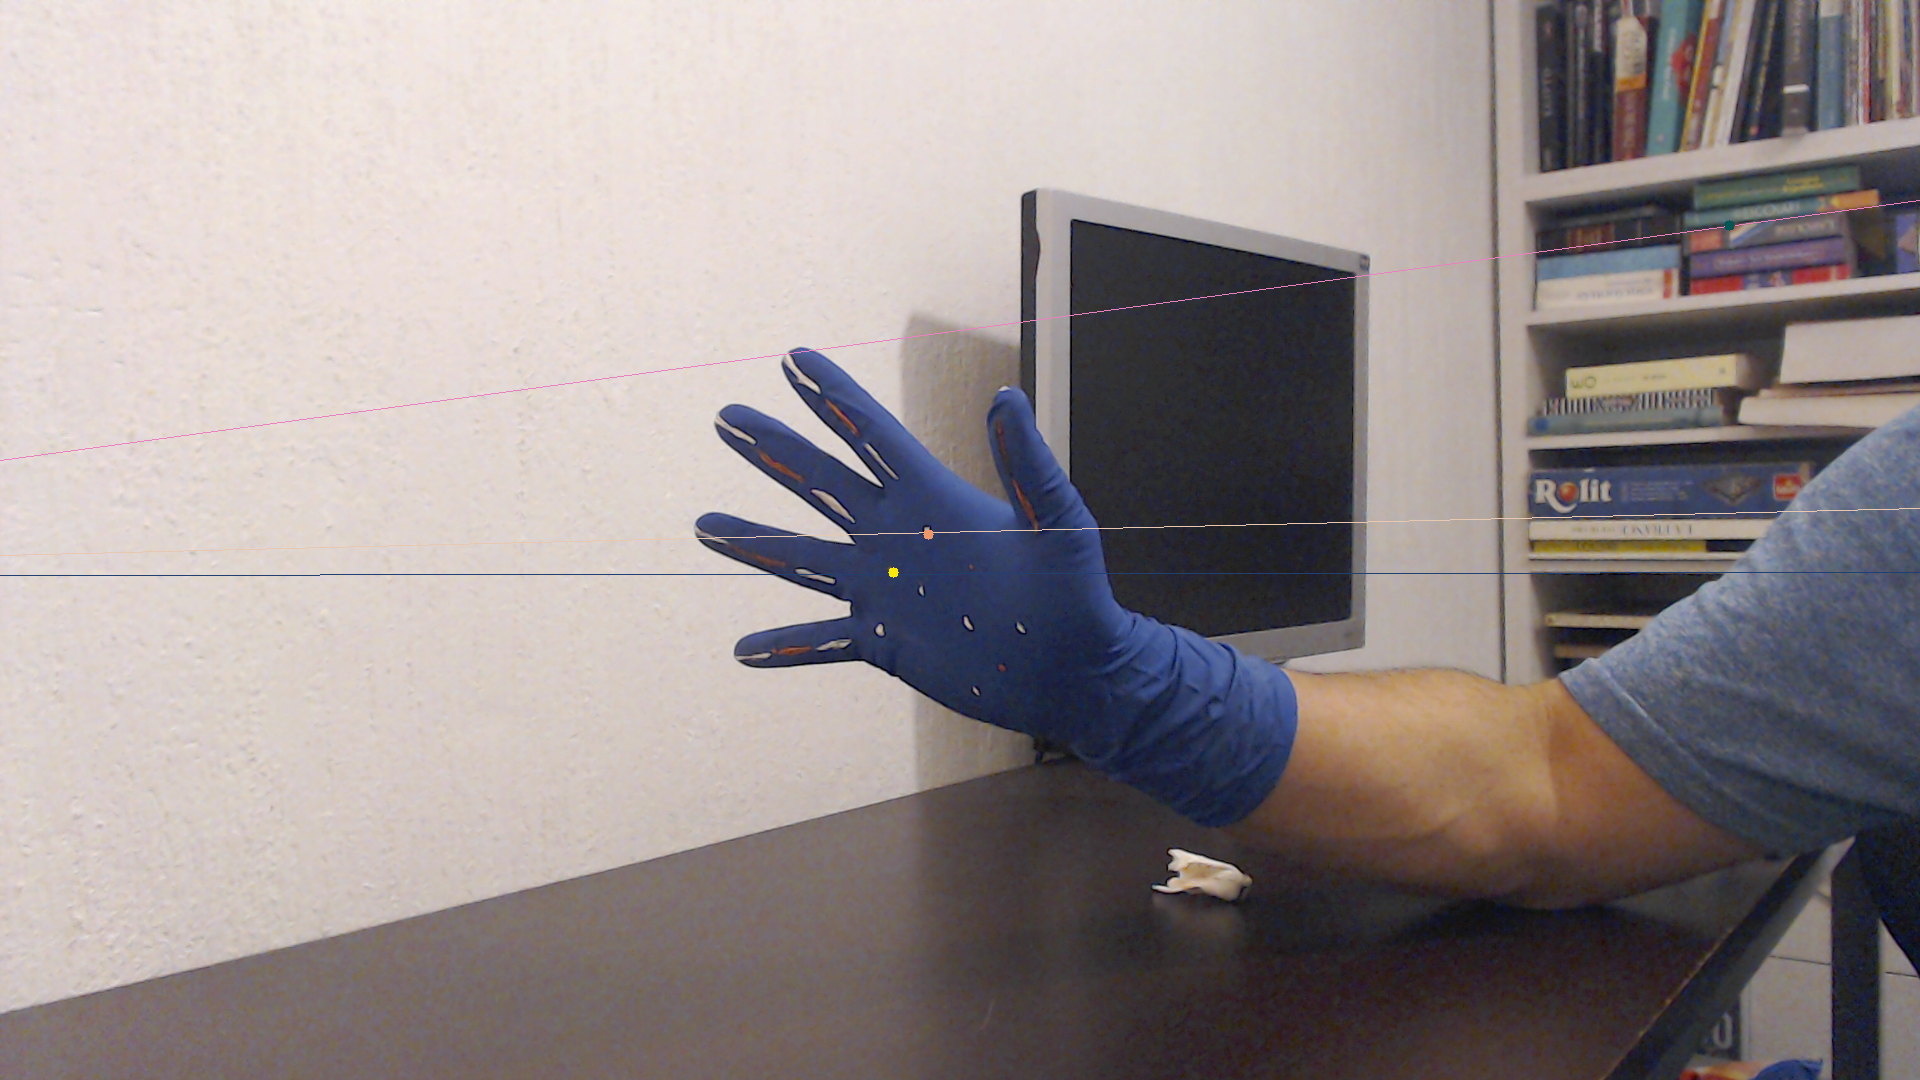
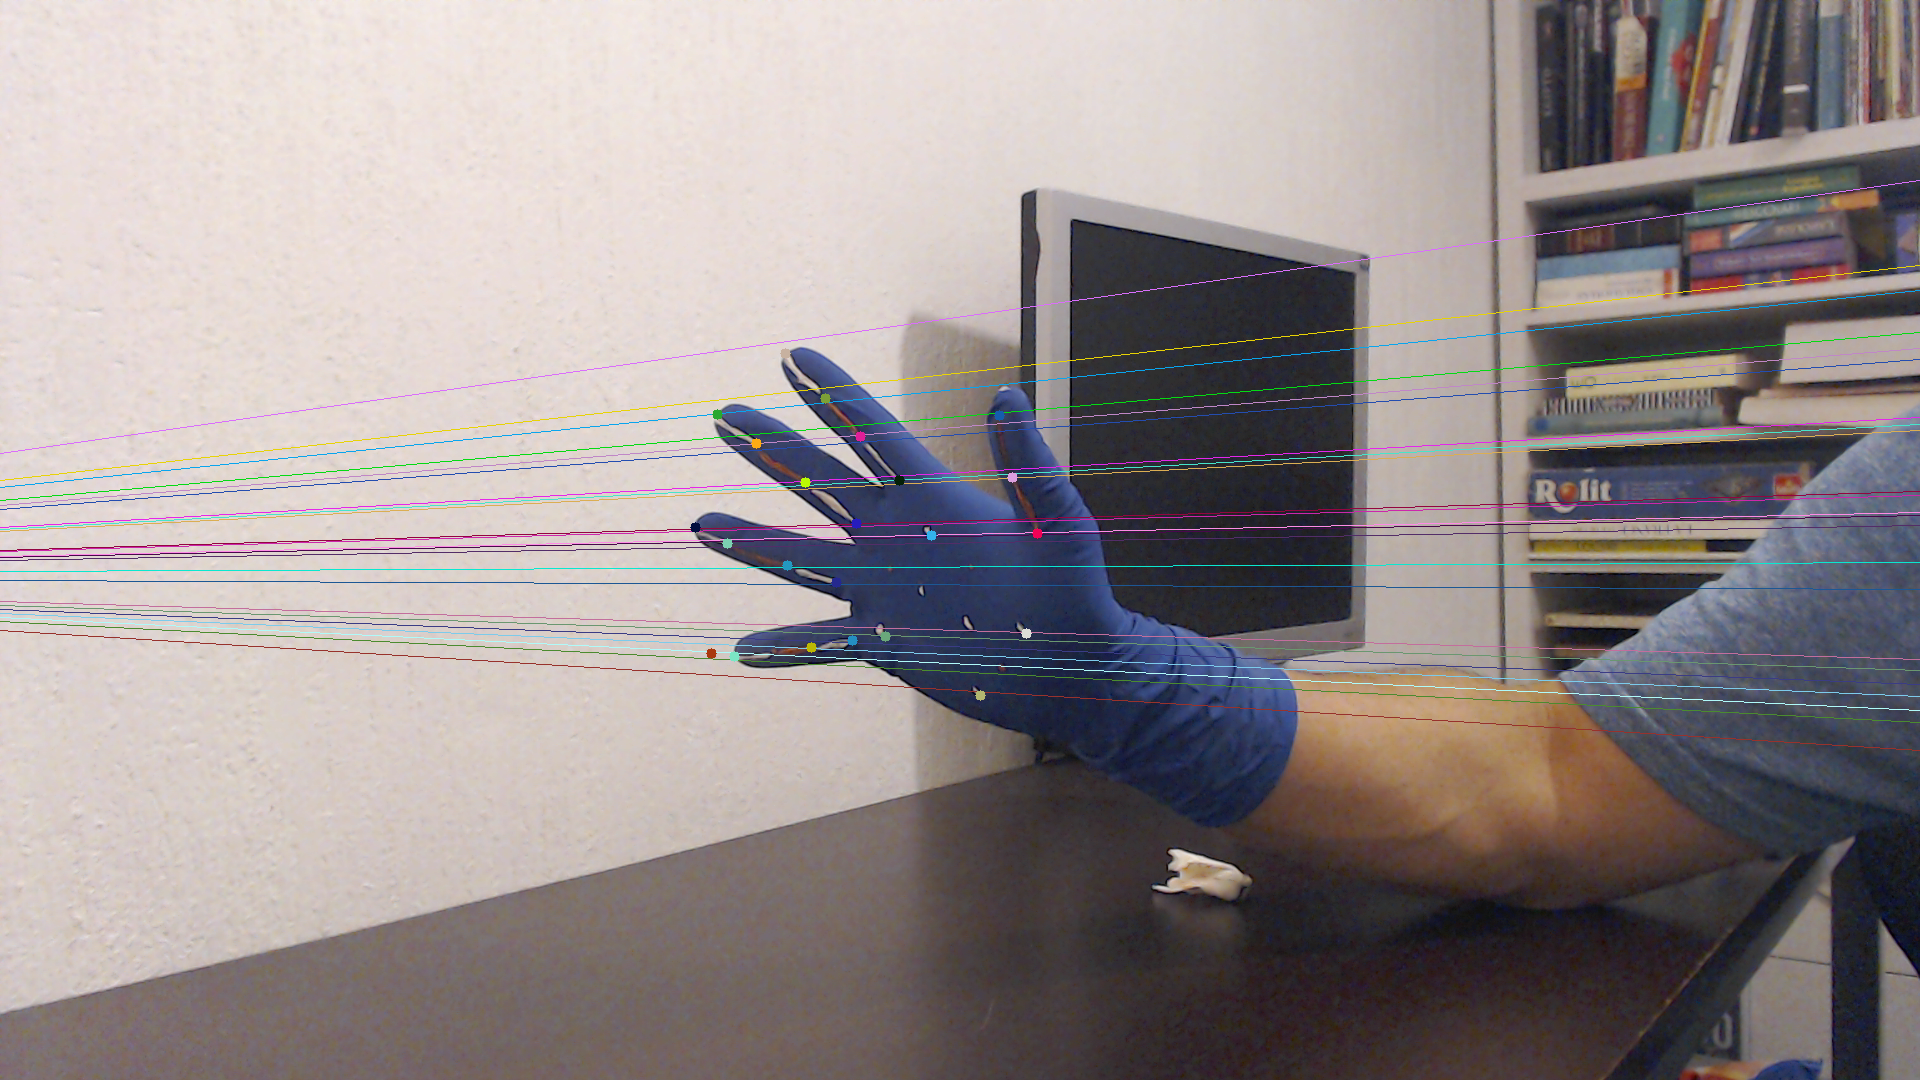
test another method

diff --git a/3d_hand.py b/3d_hand.py
@@ -18,6 +18,7 @@ import numpy as np
 import cv2
 import glob
 import sys
+import math
 from matplotlib import pyplot as plt
 
 # ---------------------- PARAMETERS SET
@@ -123,21 +124,26 @@ coord2 = np.array([[928, 534], [882, 633], [970, 628], [754, 443], [853,642],[83
 
 #coord_h1 = np.array([[1152, 407], [1055, 534], [1171, 518], [960, 273]])
 #coord_h2 = np.array([[928, 534], [882, 633], [970, 628], [754, 443]])
-coord_h1 = np.array([[1152, 407],[1091,458],[533,122]])
-coord_h2 = np.array([[928, 534],[893,572],[1729,225]])
+
+# Coordinates palm
+coord_p1 = np.array([[1148, 603],[1061,539],[1155,410], [1244, 526],
+                        [1289, 414], [1312, 350], [1330, 279],  # Coordinates thumb
+                        [1126, 340], [1096, 288], [1060,213], [998, 143],  # Coordinates index
+                        [887, 222], [959, 273], [1009, 331], [1059, 392],  # Coordinates middle
+                        [832, 391], [892, 418], [961, 449], [1016, 472],  # Coordinates ring
+                        [840, 590], [900, 578], [954, 564], [1007, 552]])  # Coordinates  pinkie
+coord_p2 = np.array([[980, 695], [885,636],[931, 535], [1026, 633],
+                        [1037, 533], [1012, 477], [999, 415],  # Coordinates thumb
+                        [899, 480], [860, 436], [825, 398], [785, 353],  # Coordinates index
+                        [856, 523], [805, 482], [756, 443], [717, 414],  # Coordinates middle
+                        [836, 582], [787, 565], [727, 543], [695, 527],  # Coordinates ring
+                        [852, 640], [811, 647], [711, 653], [734, 656]])  # Coordinates pinkie
+
 
 # Use epipoles to find the matching features
 F, mask = cv2.findFundamentalMat(coord1, coord2, cv2.FM_8POINT)
 
-# Extract the camera matrix K from the parameters file, for each camera:
-filename = workingFolder + "/cameraMatrixL.txt"
-K_l = np.loadtxt(filename, dtype='float', delimiter=',')
-filename = workingFolder + "/cameraMatrixR.txt"
-K_r = np.loadtxt(filename, dtype='float', delimiter=',')
-filename = workingFolder + "/cameraDistortionL.txt"
-D_l = np.loadtxt(filename, dtype='float', delimiter=',')
-filename = workingFolder + "/cameraDistortionR.txt"
-D_r = np.loadtxt(filename, dtype='float', delimiter=',')
+
 
 # Function to draw epipolar lines and match circles to images.
 def drawlines(img_a, img_b, lines, pts1, pts2):
@@ -166,109 +172,179 @@ def drawlines(img_a, img_b, lines, pts1, pts2):
 
 # Find epilines corresponding to points in right image (second image) and
 # drawing its lines on left image
-lines1 = cv2.computeCorrespondEpilines(coord_h1.reshape(-1, 1, 2), 1, F)
+lines1 = cv2.computeCorrespondEpilines(coord_p1.reshape(-1, 1, 2), 1, F)
 lines1 = lines1.reshape(-1, 3)
 
 # noinspection PyUnboundLocalVariable
-img5, img6 = drawlines(img[1], img[0], lines1, coord_h2, coord_h1)
+img5, img6 = drawlines(img[1], img[0], lines1, coord_p2, coord_p1)
 
 # Find epilines corresponding to points in left image (first image) and
 # drawing its lines on right image
-lines2 = cv2.computeCorrespondEpilines(coord_h2.reshape(-1, 1, 2), 2, F)
+lines2 = cv2.computeCorrespondEpilines(coord_p2.reshape(-1, 1, 2), 2, F)
 lines2 = lines2.reshape(-1, 3)
-img3, img4 = drawlines(img[0], img[1], lines2, coord_h1, coord_h2)
+img3, img4 = drawlines(img[0], img[1], lines2, coord_p1, coord_p2)
 
 # Save results in results folder
 cv2.imwrite(workingFolder + "/results/img1.png", img5)
 cv2.imwrite(workingFolder + "/results/img2.png", img3)
 
-cv2.imshow('imgNOTRectified1', img3)
-cv2.imshow('imgNOTRectified2', img5)
+cv2.imshow('Epipole lines 1', img3)
+cv2.imshow('Epipole lines 2', img5)
 
-coord1t = coord1.T
-coord2t = coord2.T
+# Calculate depth from the K and diff
 
-E, mask2 = cv2.findEssentialMat(coord1, coord2, focal=1.0, pp=(0., 0.), method=cv2.RANSAC, prob=0.999, threshold=3.0)
+# Extract the camera matrix K from the parameters file, for each camera:
+filename = workingFolder + "/cameraMatrixL.txt"
+K_l = np.loadtxt(filename, dtype='float', delimiter=',')
+filename = workingFolder + "/cameraMatrixR.txt"
+K_r = np.loadtxt(filename, dtype='float', delimiter=',')
 
-E1 = np.zeros((3, 3), dtype=np.float32)
-
-E1 = K_r.T
-E1 = E1.dot(F)
-E1 = K_l.dot(E1)
-
-#R2, t, E, F = cv2.stereoCalibrate()
-points, R, t, mask2 = cv2.recoverPose(E1, coord1, coord2)
-points, R3, t3, mask2 = cv2.recoverPose(E, coord1, coord2)
-
-
-R1, R2, P1, P2, Q, alpha1, alpha2 = cv2.stereoRectify(K_l,D_l,K_r,D_r,(1920,1080),R3,t3,flags = cv2.CALIB_ZERO_DISPARITY)
-# - - - - - - - - - - - - - - - - - - - - - - - - - - - - - - - - - - - - - - -
-R5 = np.zeros((3, 3), dtype=np.float32)
-R5 = R2
-
-#R3[0][0] = R2[0][2]
-#R3[1][0] = R2[1][2]
-#R3[2][0] = R2[2][2]
-#R2[0][2] = R2[0][0]
-#R2[1][2] = R2[1][0]
-#R2[2][2] = R2[2][0]
-#R2[0][0] = R3[0][0]
-#R2[1][0] = R3[1][0]
-#R2[2][0] = R3[2][0]
-
-#R2 = R2.T
-
-#R3[0][1] = R2[0][1]
-#R2[0][1] = R2[2][1]
-#R2[0][1] = R3[0][1]
-
-#R3[1][0] = R2[2][1]
-#R2[2][1] = R2[1][0]
-#R2[2][1] = R3[1][0]
-
-mapx1, mapy1 = cv2.initUndistortRectifyMap(K_l, D_l, R1, K_l,
-                                               #(1920,1080),
-                                               img[0].shape[:2],
-                                               cv2.CV_32F)
-mapx2, mapy2 = cv2.initUndistortRectifyMap(K_r, D_r, R2, K_r,
-                                               #(1920,1080),
-                                               img[0].shape[:2],
-                                               cv2.CV_32F)
+#       [   fx     0    cx  ]      where    alpha = fx
+# K =   [    0    fy    cy  ]               beta = fy
+#       [    0     0     1  ]               cx = u0, cy = v0
 
 
 
-img_rect1 = cv2.remap(img[0], mapx1, mapy1, cv2.INTER_LINEAR)
-img_rect2 = cv2.remap(img[1], mapx2, mapy2, cv2.INTER_LINEAR)
+# create 3d point arrays
+x_points = np.zeros((coord_p1.shape[0]), dtype=np.float32)
+y_points = np.zeros((coord_p1.shape[0]), dtype=np.float32)
+z_points = np.zeros((coord_p1.shape[0]), dtype=np.float32)
+i = 0
 
-#img_rect2 = cv2.flip(img_rect2, 1)
+for pt1, pt2 in zip(coord_p1, coord_p2):
+    # direction vector of point 1 in image 1
+    #p1 = pt1
+    l1 = np.ones((3, 1), dtype=np.float32)
+    l1[0] = (pt1[0] - K_l[0][2]) / K_l[0][0]
+    l1[1] = (pt1[1] - K_l[1][2]) / K_l[1][1]
 
-# draw the images side by side
-total_size = (max(img_rect1.shape[0], img_rect2.shape[0]),
-              img_rect1.shape[1] + img_rect2.shape[1], 3)
-img_8 = np.zeros(total_size, dtype=np.uint8)
-img_8[:img_rect1.shape[0], :img_rect1.shape[1]] = img_rect1
-img_8[:img_rect2.shape[0], img_rect1.shape[1]:] = img_rect2
+    # direction vector of point 2 in image 2
+    l2 = np.ones((3, 1), dtype=np.float32)
+    l2[0] = (pt2[0] - K_r[0][2]) / K_r[0][0]
+    l2[1] = (pt2[1] - K_r[1][2]) / K_r[1][1]
 
-# draw horizontal lines every 25 px accross the side by side image
-for i in range(20, img_8.shape[0], 25):
-    cv2.line(img_8, (0, i), (img_8.shape[1], i), (255, 0, 0))
+    # calculate theta
+    theta1 = math.atan(122 / 533)
+    theta2 = math.atan(225 / 1729)
 
-cv2.imshow('imgRectified1', img_rect1)
-cv2.imshow('imgRectified2', img_rect2)
-cv2.imshow('imgRectified', img_8)
+    # Translation vector from camera 1 to camera 2
+    t = np.zeros((3, 1), dtype=np.float32)
+    t[0][0] = 1
 
-cv2.imwrite(workingFolder + "/results/img_rect1.png", img_rect1)
-cv2.imwrite(workingFolder + "/results/img_rect2.png", img_rect2)
+    # Compute the magnitude of L1
+    L1_mag = (np.linalg.norm(t)) * math.sin(theta1) / math.sin(theta1 - theta2)
 
-#World coordinates in pixels
-XYZ = np.array([[0],[0],[0],[0]])
-#xyd = np.array([[1091],[458],[198],[1]])
-xyd = np.array([[533],[1729],[2000],[1]])
-XYZ = Q.dot(xyd)
-XYZ[0] = XYZ[0]/XYZ[3]
-XYZ[1] = XYZ[1]/XYZ[3]
-XYZ[2] = XYZ[2]/XYZ[3]
+    # compute 3D reconstruction
+    L1 = np.ones((3, 1), dtype=np.float32)
+    L1 = L1_mag * l1 / np.linalg.norm(l1)
 
+    # Add to 3d_points list
+    x_points[i] = L1[0][0]
+    y_points[i] = L1[1][0]
+    z_points[i] = L1[2][0]
+    i += 1
+
+ax = plt.axes(projection='3d')
+# draw palm line 1
+zline = np.linspace(z_points[0], z_points[1], num=100)
+yline = np.linspace(y_points[0], y_points[1], num=100)
+xline = np.linspace(x_points[0], x_points[1], num=100)
+ax.plot3D(xline, yline, zline, 'gray')
+# draw palm line 2
+zline = np.linspace(z_points[1], z_points[2], num=100)
+yline = np.linspace(y_points[1], y_points[2], num=100)
+xline = np.linspace(x_points[1], x_points[2], num=100)
+ax.plot3D(xline, yline, zline, 'gray')
+# draw palm line 3
+zline = np.linspace(z_points[2], z_points[3], num=100)
+yline = np.linspace(y_points[2], y_points[3], num=100)
+xline = np.linspace(x_points[2], x_points[3], num=100)
+ax.plot3D(xline, yline, zline, 'gray')
+# draw palm line 2
+zline = np.linspace(z_points[3], z_points[0], num=100)
+yline = np.linspace(y_points[3], y_points[0], num=100)
+xline = np.linspace(x_points[3], x_points[0], num=100)
+ax.plot3D(xline, yline, zline, 'red')
+# draw thumb line 1
+zline = np.linspace(z_points[4], z_points[5], num=100)
+yline = np.linspace(y_points[4], y_points[5], num=100)
+xline = np.linspace(x_points[4], x_points[5], num=100)
+ax.plot3D(xline, yline, zline, 'red')
+# draw thumb line 2
+zline = np.linspace(z_points[5], z_points[6], num=100)
+yline = np.linspace(y_points[5], y_points[6], num=100)
+xline = np.linspace(x_points[5], x_points[6], num=100)
+ax.plot3D(xline, yline, zline, 'red')
+# draw index line 1
+zline = np.linspace(z_points[7], z_points[8], num=100)
+yline = np.linspace(y_points[7], y_points[8], num=100)
+xline = np.linspace(x_points[7], x_points[8], num=100)
+ax.plot3D(xline, yline, zline, 'blue')
+# draw index line 2
+zline = np.linspace(z_points[8], z_points[9], num=100)
+yline = np.linspace(y_points[8], y_points[9], num=100)
+xline = np.linspace(x_points[8], x_points[9], num=100)
+ax.plot3D(xline, yline, zline, 'blue')
+# draw index line 3
+zline = np.linspace(z_points[9], z_points[10], num=100)
+yline = np.linspace(y_points[9], y_points[10], num=100)
+xline = np.linspace(x_points[9], x_points[10], num=100)
+ax.plot3D(xline, yline, zline, 'blue')
+
+# draw middle line 1
+zline = np.linspace(z_points[11], z_points[12], num=100)
+yline = np.linspace(y_points[11], y_points[12], num=100)
+xline = np.linspace(x_points[11], x_points[12], num=100)
+ax.plot3D(xline, yline, zline, 'blue')
+# draw middle line 2
+zline = np.linspace(z_points[12], z_points[13], num=100)
+yline = np.linspace(y_points[12], y_points[13], num=100)
+xline = np.linspace(x_points[12], x_points[13], num=100)
+ax.plot3D(xline, yline, zline, 'blue')
+# draw middle line 3
+zline = np.linspace(z_points[13], z_points[14], num=100)
+yline = np.linspace(y_points[13], y_points[14], num=100)
+xline = np.linspace(x_points[13], x_points[14], num=100)
+ax.plot3D(xline, yline, zline, 'blue')
+
+# draw ring line 1
+zline = np.linspace(z_points[15], z_points[16], num=100)
+yline = np.linspace(y_points[15], y_points[16], num=100)
+xline = np.linspace(x_points[15], x_points[16], num=100)
+ax.plot3D(xline, yline, zline, 'blue')
+# draw ring line 2
+zline = np.linspace(z_points[16], z_points[17], num=100)
+yline = np.linspace(y_points[16], y_points[17], num=100)
+xline = np.linspace(x_points[16], x_points[17], num=100)
+ax.plot3D(xline, yline, zline, 'blue')
+# draw ring line 3
+zline = np.linspace(z_points[17], z_points[18], num=100)
+yline = np.linspace(y_points[17], y_points[18], num=100)
+xline = np.linspace(x_points[17], x_points[18], num=100)
+ax.plot3D(xline, yline, zline, 'blue')
+
+# draw pinkie line 1
+zline = np.linspace(z_points[19], z_points[20], num=100)
+yline = np.linspace(y_points[19], y_points[20], num=100)
+xline = np.linspace(x_points[19], x_points[20], num=100)
+ax.plot3D(xline, yline, zline, 'blue')
+# draw pinkie line 2
+zline = np.linspace(z_points[20], z_points[21], num=100)
+yline = np.linspace(y_points[20], y_points[21], num=100)
+xline = np.linspace(x_points[20], x_points[21], num=100)
+ax.plot3D(xline, yline, zline, 'blue')
+# draw pinkie line 3
+zline = np.linspace(z_points[21], z_points[22], num=100)
+yline = np.linspace(y_points[21], y_points[22], num=100)
+xline = np.linspace(x_points[21], x_points[22], num=100)
+ax.plot3D(xline, yline, zline, 'blue')
+
+# -- Set the Position Relative to Camera 3D Plot
+#ax = plt.axes(projection="3d")
+plt.suptitle('Position Relative to Camera Plot')
+# -- Display the origin as a pink cross
+ax.scatter3D(x_points, y_points, z_points, c='b', marker='P')
+plt.show()
 
 # Press 'q' to exit each image window
 cv2.waitKey(0)
